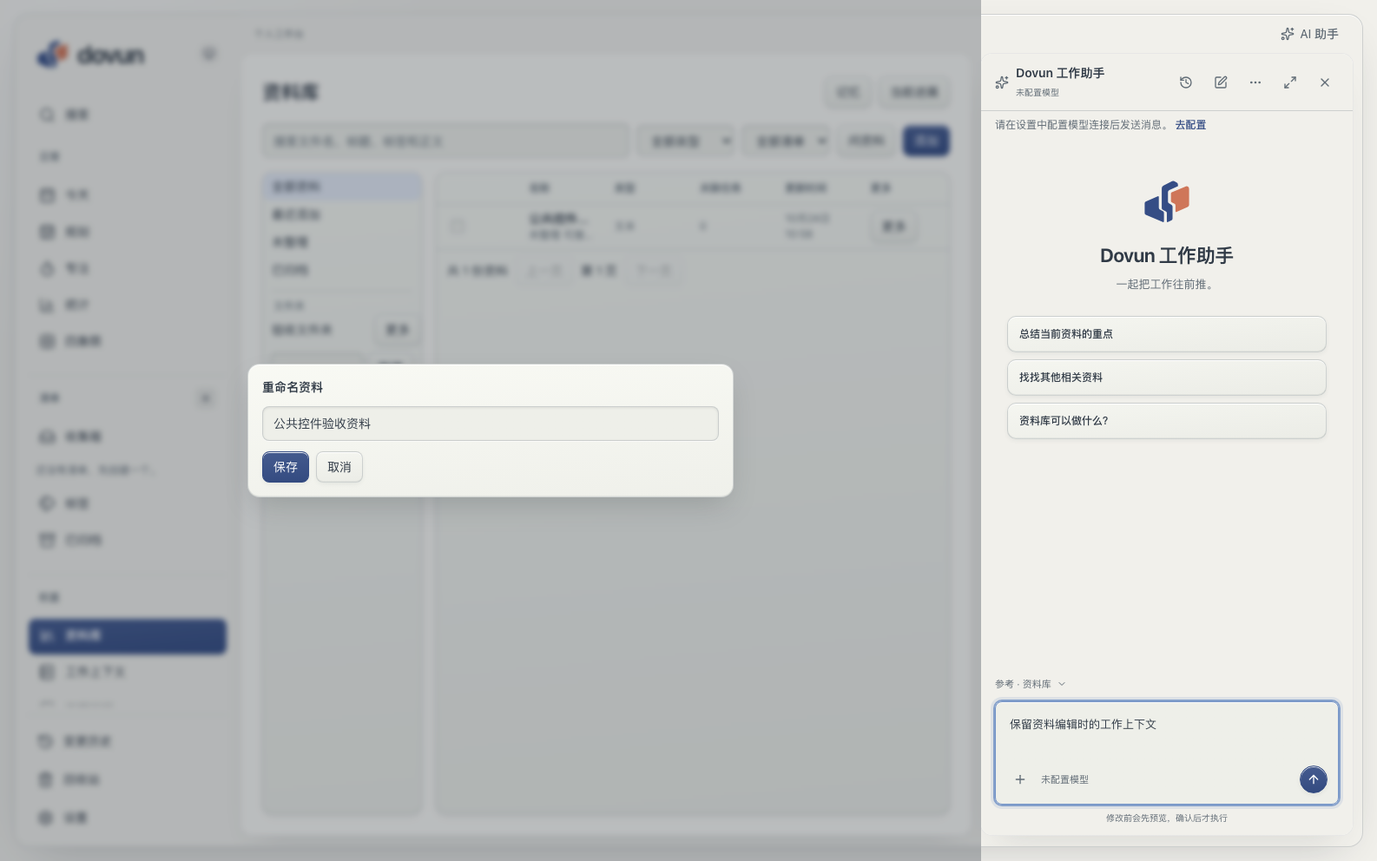
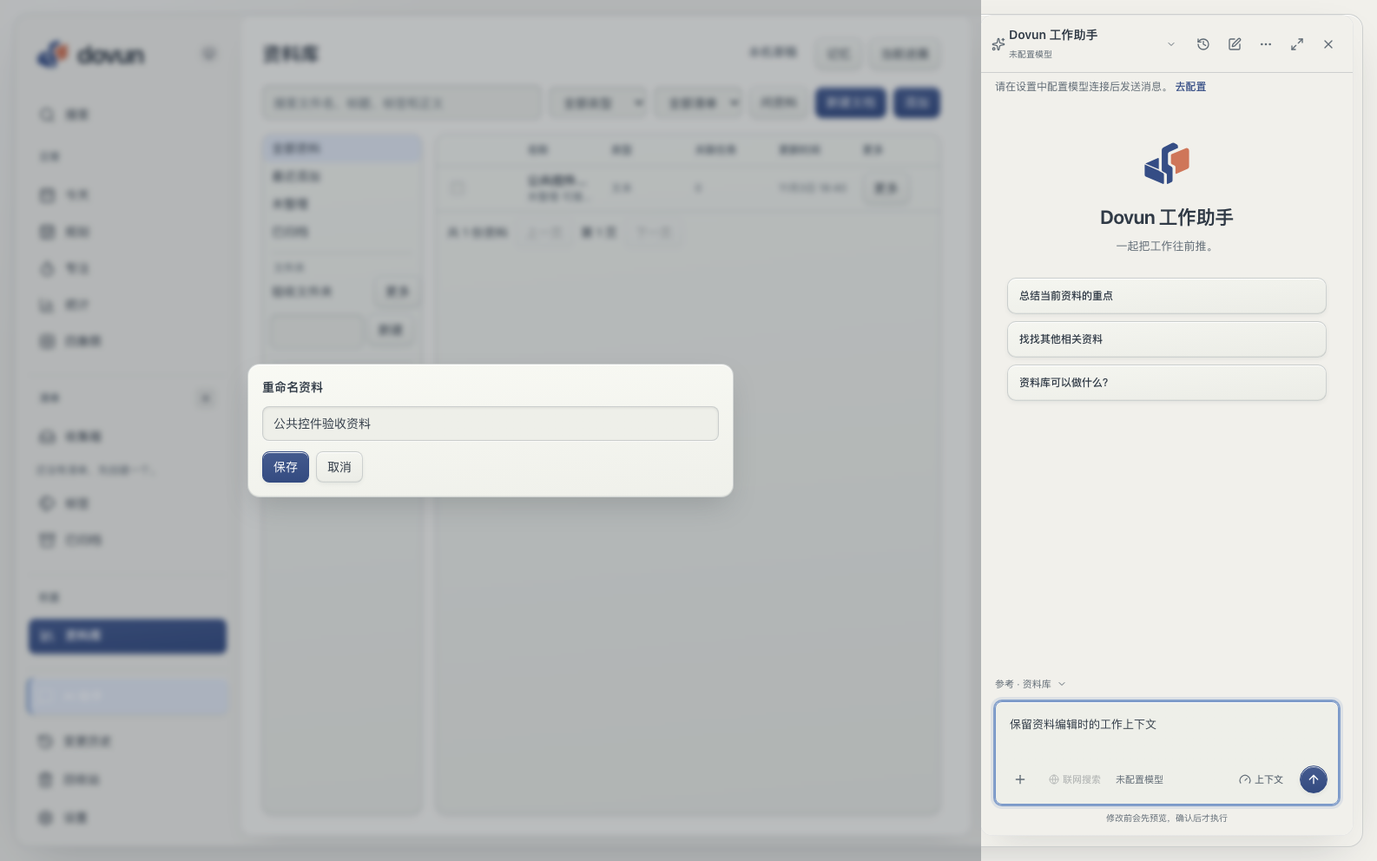
feat(assistant): pin the global entry to the sidebar footer
Move the AI assistant out of the scrolling collaboration group into the
fixed sidebar footer, and drop the duplicate chat button from task page
headers. E2E locators now open the assistant via the sidebar (or the
mobile floating button); modal-scoped entries stay untouched. Update
app knowledge to describe the fixed footer entry.

diff --git a/server/src/agent/app-knowledge.ts b/server/src/agent/app-knowledge.ts
@@ -49,8 +49,8 @@ export const appKnowledge: AppKnowledgeEntry[] = [
   { id: 'focus', title: '专注', content: '专注页面提供专注计时，可从任务详情开始专注。计时与任务安排不同；关闭 AI 面板不会结束计时。' },
   { id: 'stats', title: '统计', content: '统计页在专注后面，按本地日历汇总完成、逾期、专注、规划和 AI 使用。可选 7 天、30 天，或不超过 366 天的自定义区间。某一块加载失败时，其余块仍显示。有记录的天数很少时数字照常统计，趋势图先不画。助手没有统计总览工具，不要编造这些数字；派发轮次仍用 orchestration_stats。' },
   { id: 'topics', title: '清单管理', content: '清单管理可新建、选择和编辑清单，也可进入收集箱或设置。清单隔离工作上下文，但不妨碍用户要求跨清单查询。每个清单可填写长期目标和目标截止日：目标是一两句话的方向描述，截止日是日历日期；两者在清单页顶部显示，临近或超过截止日会标出。进入该清单时助手自动读到目标和截止日，可据此判断任务优先级和回顾节奏；目标本身不是任务，也不会自动生成任务。' },
-  { id: 'more', title: '手机导航', identities: ['work', 'study'], content: '新安装手机底栏为今天、规划、清单、资料库，另有更多；已有用户的配置保留。更多与桌面按日常、清单、积累、AI 协作、高级工具、通用入口组织，高级工具默认折叠。手机底栏由设置决定，更多页面提供其他入口，学习地图在积累分组。AI 助手可从页面浮动按钮打开，不必进入更多；桌面端也可从左侧“AI 协作”分组直接打开。聊天返回后保留原页面状态。' },
-  { id: 'assistant', title: 'AI 助手', content: '桌面端从左侧“AI 协作”分组打开 AI 助手，手机端使用底部导航上方的浮动助手按钮，不再显示“个人工作台”全局横栏；快捷键是 Command+Shift+L 或 Ctrl+Shift+L。打开任务后，任务详情与 AI 助手在工作侧栏通过页签切换，每次占满侧栏；任务底部的“问 AI”可切到聊天，点击“任务”页签返回详情。顶部使用紧凑的一行切换和唯一的侧栏关闭按钮，无收放动画；聊天不重复展示顶部任务引用卡，输入框上方的“参考/已固定”统一展示页面、任务、资料、筛选和主动附加内容，点开可查看详情并切换跟随页面或固定上下文。切换保留任务编辑内容、聊天草稿及当前会话；关闭侧栏按现有保存流程处理任务编辑。电脑可展开为完整助手并返回，手机在全屏工作侧栏切换。跨页继续同一会话，下一条消息跟随当前页面；固定上下文后保持对象和范围。草稿及选中文字仅主动带入，每个最多 20000 字符、合计 40000 字符。关闭只收起，不中断运行。助手可用 present_reply 混排文字和 SVG 图示，SVG 应输出独立内容块。前后端共用静态 SVG 规则，支持无障碍与语言说明、常用文字和描边填充属性、本地渐变和裁剪，以及受限内联展示样式；CDATA 文字会保留。脚本、事件、外链、动画、滤镜、mask、pattern、use、symbol、textPath，以及内联 CSS transform/d 不支持；SVG transform/d 属性可用。箭头不能嵌套，图元数量、尺寸、引用深度和估算渲染成本有限制；已完成消息中的 SVG 代码块也能安全预览，支持查看源码、放大和导出，危险或无效内容会显示失败提示并保留源码。同一轮回答中的连续思考、只读工具查询和技能读取合并为一条默认收起的执行过程，显示查询项数、思考次数和技能项数；执行时显示当前查询或思考，失败和中断在收起时也会明确提示。展开后按消息顺序查看思考与工具记录，单项可继续展开查看内容、参数与结果。修改操作的预览与审批卡保持在过程之外直接可见。模型返回思考内容时可展开查看，思考期间显示耗时，完成后思考内容默认收起；停止后保留已收到的思考，未返回时不显示空区域。思考独立保存，旧对话和刷新后的记录也使用相同的合并展示，不混入回答和模型历史。同一轮重复来源合并为底部参考来源列表，历史对话以内容摘要和本地日期显示。正文有对应来源编号时，点击编号可打开原文浮窗；来源只来自实际工具读取，删除或版本失效时提示，不编造原文。学习节点、学习地图和正式练习题读取也可生成来源；题目来源不包含隐藏答案或评分细则。助手头部可在工作助手与学习助手之间切换，同一工作区内往返时恢复各自会话、输入草稿及显式引用；刷新和切回原工作区也可恢复已保存的草稿，保存失败会持续提示，未知发送原请求与新草稿分别保留；会话历史按身份分开。有未确认发送、执行中任务或未决审批时先处理当前状态再切换。' },
+  { id: 'more', title: '手机导航', identities: ['work', 'study'], content: '新安装手机底栏为今天、规划、清单、资料库，另有更多；已有用户的配置保留。更多与桌面按日常、清单、积累、AI 协作、高级工具、通用入口组织，高级工具默认折叠。手机底栏由设置决定，更多页面提供其他入口，学习地图在积累分组。AI 助手可从页面浮动按钮打开，不必进入更多；桌面端从左侧栏底部固定入口直接打开。聊天返回后保留原页面状态。' },
+  { id: 'assistant', title: 'AI 助手', content: '桌面端从左侧栏底部的固定“AI 助手”入口打开助手，该入口不随导航列表滚动，任务页顶栏没有单独的聊天按钮；手机端使用底部导航上方的浮动助手按钮；快捷键是 Command+Shift+L 或 Ctrl+Shift+L。设置、回收站、变更等全屏弹层内有自己的“AI 助手”按钮。打开任务后，任务详情与 AI 助手在工作侧栏通过页签切换，每次占满侧栏；任务底部的“问 AI”可切到聊天，点击“任务”页签返回详情。顶部使用紧凑的一行切换和唯一的侧栏关闭按钮，无收放动画；聊天不重复展示顶部任务引用卡，输入框上方的“参考/已固定”统一展示页面、任务、资料、筛选和主动附加内容，点开可查看详情并切换跟随页面或固定上下文。切换保留任务编辑内容、聊天草稿及当前会话；关闭侧栏按现有保存流程处理任务编辑。电脑可展开为完整助手并返回，手机在全屏工作侧栏切换。跨页继续同一会话，下一条消息跟随当前页面；固定上下文后保持对象和范围。草稿及选中文字仅主动带入，每个最多 20000 字符、合计 40000 字符。关闭只收起，不中断运行。助手可用 present_reply 混排文字和 SVG 图示，SVG 应输出独立内容块。前后端共用静态 SVG 规则，支持无障碍与语言说明、常用文字和描边填充属性、本地渐变和裁剪，以及受限内联展示样式；CDATA 文字会保留。脚本、事件、外链、动画、滤镜、mask、pattern、use、symbol、textPath，以及内联 CSS transform/d 不支持；SVG transform/d 属性可用。箭头不能嵌套，图元数量、尺寸、引用深度和估算渲染成本有限制；已完成消息中的 SVG 代码块也能安全预览，支持查看源码、放大和导出，危险或无效内容会显示失败提示并保留源码。同一轮回答中的连续思考、只读工具查询和技能读取合并为一条默认收起的执行过程，显示查询项数、思考次数和技能项数；执行时显示当前查询或思考，失败和中断在收起时也会明确提示。展开后按消息顺序查看思考与工具记录，单项可继续展开查看内容、参数与结果。修改操作的预览与审批卡保持在过程之外直接可见。模型返回思考内容时可展开查看，思考期间显示耗时，完成后思考内容默认收起；停止后保留已收到的思考，未返回时不显示空区域。思考独立保存，旧对话和刷新后的记录也使用相同的合并展示，不混入回答和模型历史。同一轮重复来源合并为底部参考来源列表，历史对话以内容摘要和本地日期显示。正文有对应来源编号时，点击编号可打开原文浮窗；来源只来自实际工具读取，删除或版本失效时提示，不编造原文。学习节点、学习地图和正式练习题读取也可生成来源；题目来源不包含隐藏答案或评分细则。助手头部可在工作助手与学习助手之间切换，同一工作区内往返时恢复各自会话、输入草稿及显式引用；刷新和切回原工作区也可恢复已保存的草稿，保存失败会持续提示，未知发送原请求与新草稿分别保留；会话历史按身份分开。有未确认发送、执行中任务或未决审批时先处理当前状态再切换。' },
 ];
 function knowledgeVisibleTo(item: AppKnowledgeEntry, identityId: string) {
   return item.identities ? item.identities.includes(identityId as 'work' | 'study') : identityId !== 'study';

diff --git a/e2e/app.spec.ts b/e2e/app.spec.ts
@@ -25,7 +25,7 @@ async function taskCount(request: APIRequestContext, topicId: string) {
 }
 
 async function send(page: Page, message: string) {
-  if (!(await page.getByPlaceholder(composerPlaceholder).isVisible())) await page.getByRole('button', { name: '打开聊天', exact: true }).click();
+  if (!(await page.getByPlaceholder(composerPlaceholder).isVisible())) await page.getByRole('button', { name: '打开 AI 助手', exact: true }).click();
   await page.getByPlaceholder(composerPlaceholder).fill(message);
   await page.getByRole('button', { name: '发送' }).click();
 }
@@ -151,7 +151,7 @@ test.describe('Agent 工作室 MVP', () => {
     const chatHeading = page.getByRole('heading', { level: 2, name: 'Dovun 工作助手' });
     const boardSection = page.getByRole('main');
     await expect(chatHeading).toBeHidden();
-    await page.getByRole('button', { name: '打开聊天', exact: true }).click();
+    await page.getByRole('button', { name: '打开 AI 助手', exact: true }).click();
     await expect(chatHeading).toBeVisible();
     await expect(page.getByRole('button', { name: '关闭聊天' })).toBeVisible();
     const composer = page.getByPlaceholder(composerPlaceholder);
@@ -162,12 +162,12 @@ test.describe('Agent 工作室 MVP', () => {
 
     await page.getByRole('button', { name: '关闭聊天' }).click();
     await expect(chatHeading).toBeHidden();
-    await expect(page.getByRole('button', { name: '打开聊天' })).toBeVisible();
+    await expect(page.getByRole('button', { name: '打开 AI 助手' })).toBeVisible();
     const boardWidthAfterClose = (await boardSection.boundingBox())?.width;
     expect(boardWidthAfterClose).toBeGreaterThan(boardWidthBeforeClose!);
     expect(await page.evaluate(() => document.documentElement.scrollWidth > document.documentElement.clientWidth)).toBe(false);
 
-    await page.getByRole('button', { name: '打开聊天' }).click();
+    await page.getByRole('button', { name: '打开 AI 助手' }).click();
     await expect(chatHeading).toBeVisible();
     await expect(page.getByRole('button', { name: '关闭聊天' })).toBeVisible();
     await expect(composer).toHaveValue('关闭后仍然保留');
@@ -185,7 +185,7 @@ test.describe('Agent 工作室 MVP', () => {
     const detail = page.getByRole('dialog', { name: '任务详情', exact: true });
     await detail.getByLabel('详情', { exact: true }).fill('检查器草稿');
 
-    await page.getByRole('button', { name: '打开聊天', exact: true }).click();
+    await page.getByRole('button', { name: '打开 AI 助手', exact: true }).click();
     await expect(page.getByRole('dialog', { name: '保存未完成的编辑？' })).toHaveCount(0);
     await expect(page.getByRole('heading', { level: 2, name: 'Dovun 工作助手' })).toBeVisible();
     await expect(detail).toBeHidden();
@@ -230,7 +230,7 @@ test.describe('Agent 工作室 MVP', () => {
     await expect(page.getByRole('button', { name: '移动端任务', exact: true })).toBeVisible();
     expect(await page.evaluate(() => document.documentElement.scrollWidth > document.documentElement.clientWidth)).toBe(false);
 
-    await page.getByRole('button', { name: '打开聊天', exact: true }).click();
+    await page.getByRole('button', { name: '打开 AI 助手', exact: true }).click();
     await expect(page.getByPlaceholder(composerPlaceholder)).toBeVisible();
     await send(page, '创建任务');
     const card = page.getByTestId('approval-card');

diff --git a/client/src/components/tasks/ListPageHeader.tsx b/client/src/components/tasks/ListPageHeader.tsx
@@ -1,7 +1,7 @@
 import { Surface } from '@/components/ui/surface.js';
 import type { ReactNode } from 'react';
 import { useTranslation } from 'react-i18next';
-import { ChevronRight, Grid2X2, Kanban, LayoutList, Library, MessageSquare, Pencil, Plus } from 'lucide-react';
+import { ChevronRight, Grid2X2, Kanban, LayoutList, Library, Pencil, Plus } from 'lucide-react';
 import type { Topic, View } from '@/lib/api.js';
 import { Button } from '@/components/ui/button.js';
 import { intlLocale } from '@/i18n/index.js';
@@ -22,14 +22,13 @@ type Props = {
   filterSummary: string;
   layout: Layout;
   onLayout: (layout: Layout) => void;
-  onOpenChat: () => void;
   onOpenKnowledge: () => void;
   onEditTopic: () => void;
   onNewTask: () => void;
   filterBar?: ReactNode;
 };
 
-export function ListPageHeader({ page, title, scoped, archived, today, detail, briefNotes, filterSummary, layout, onLayout, onOpenChat, onOpenKnowledge, onEditTopic, onNewTask, filterBar }: Props) {
+export function ListPageHeader({ page, title, scoped, archived, today, detail, briefNotes, filterSummary, layout, onLayout, onOpenKnowledge, onEditTopic, onNewTask, filterBar }: Props) {
   const { t } = useTranslation('tasks');
   return (
     <header className={`dovun-page-header mb-5${page === 'today' ? ' dovun-today-header' : ''}`}>
@@ -46,7 +45,6 @@ export function ListPageHeader({ page, title, scoped, archived, today, detail, b
         </div>
         <div className="flex flex-wrap items-center gap-1">
           {page === 'board' && detail && filterBar}
-          <Button variant="ghost" size="icon" className="max-lg:hidden" aria-label={t('listPageHeader.openChat')} onClick={onOpenChat}><MessageSquare /></Button>
           {page === 'board' && detail && !archived && <Button variant="ghost" size="icon" aria-label={t('listPageHeader.editList', { name: detail.name })} onClick={onEditTopic}><Pencil /></Button>}
           {scoped && <Surface as="div" tone="input" className={cn('flex rounded-xl', page === 'board' ? 'gap-0.5' : 'glass-control p-1')}>{page === 'board' ? <><Button variant={layout === 'list' ? 'secondary' : 'ghost'} size="icon-sm" aria-label={t('listPageHeader.listLayout')} onClick={() => onLayout('list')}><LayoutList /></Button><Button variant={layout === 'board' ? 'secondary' : 'ghost'} size="icon-sm" aria-label={t('listPageHeader.boardLayout')} onClick={() => onLayout('board')}><Kanban /></Button><Button variant={layout === 'quadrant' ? 'secondary' : 'ghost'} size="icon-sm" aria-label={t('listPageHeader.quadrantLayout')} onClick={() => onLayout('quadrant')}><Grid2X2 /></Button></> : page !== 'quadrant' && <><Button variant={layout === 'list' ? 'secondary' : 'ghost'} size="sm" onClick={() => onLayout('list')}>{t('listPageHeader.listLayout')}</Button><Button variant={layout === 'board' ? 'secondary' : 'ghost'} size="sm" onClick={() => onLayout('board')}>{t('listPageHeader.boardLayout')}</Button></>}</Surface>}
           {(scoped || page === 'today') && !archived && page !== 'board' && page !== 'quadrant' && <Button onClick={onNewTask}><Plus />{t('listPageHeader.newTask')}</Button>}

diff --git a/client/src/components/layout/Sidebar.tsx b/client/src/components/layout/Sidebar.tsx
@@ -37,20 +37,21 @@ export function Sidebar({ compact, route, page, topics, topicsLoading, selectedT
       <nav aria-label={t('sidebar.mainNav')} className="sidebar-nav">
         {link('search')}
         {navigationGroups.filter(group => group.id !== 'system').map(group => {
-          if (compact) return <div key={group.id} className="dovun-compact-group">{group.views.map(link)}</div>;
+          const views = group.views.filter(view => view !== 'chat');
+          if (compact) return <div key={group.id} className="dovun-compact-group">{views.map(link)}</div>;
           if (group.id === 'advanced') return <Disclosure key={group.id} className="dovun-advanced" open={advancedOpen || route === 'worktrees'}>
             <DisclosureTrigger className="sidebar-link" onClick={event => { event.preventDefault(); setAdvancedOpen(value => !value); }}><ChevronRight className="size-3.5" aria-hidden /><span>{t('app:groups.advanced')}</span></DisclosureTrigger>
-            {group.views.map(link)}
+            {views.map(link)}
           </Disclosure>;
           return <section key={group.id} className="dovun-nav-group" aria-label={t(`app:groups.${group.id}`)}>
             <div className="sidebar-section">{group.id === 'lists' ? <Button variant="plain" size="bare" onClick={() => onNavigate('topics')}>{t('app:groups.lists')}</Button> : <span>{t(`app:groups.${group.id}`)}</span>}
               {group.id === 'lists' && <Button variant="row" size="bare" type="button" className="sidebar-add" aria-label={t('sidebar.newList')} onClick={onNewTopic}><Plus className="size-3.5" aria-hidden /></Button>}
             </div>
-            {group.id === 'lists' ? <>{link('inbox')}<TopicList variant="sidebar" topics={topics} loading={topicsLoading} selectedTopicId={page === 'board' ? selectedTopicId : ''} onSelect={onSelectTopic} onEdit={onEditTopic} />{link('tags')}{link('archived')}</> : group.views.map(link)}
+            {group.id === 'lists' ? <>{link('inbox')}<TopicList variant="sidebar" topics={topics} loading={topicsLoading} selectedTopicId={page === 'board' ? selectedTopicId : ''} onSelect={onSelectTopic} onEdit={onEditTopic} />{link('tags')}{link('archived')}</> : views.map(link)}
           </section>;
         })}
       </nav>
     </SidebarScroll>
-    <footer className="sidebar-footer"><nav aria-label={t('sidebar.tools')} className="sidebar-nav">{['changes', 'trash', 'settings'].map(view => link(view as View))}</nav>{compact && <ThemeToggle />}</footer>
+    <footer className="sidebar-footer"><nav aria-label={t('sidebar.aiAssistant')} className="sidebar-nav">{link('chat')}</nav><nav aria-label={t('sidebar.tools')} className="sidebar-nav sidebar-nav-follow">{['changes', 'trash', 'settings'].map(view => link(view as View))}</nav>{compact && <ThemeToggle />}</footer>
   </aside>;
 }

diff --git a/client/src/App.tsx b/client/src/App.tsx
@@ -521,7 +521,7 @@ function ScopedApp({scope}:{scope:string|undefined}) {
   const filterBar = <TaskFilterBar page={page} scoped={scoped} filters={filters} sortMode={sortMode} topics={topics} tags={tags} open={filtersOpen} onOpenChange={setFiltersOpen} onChange={updateFilter} onSort={setSortMode} onClear={() => setFilters(emptyFilters)} presentation={page === 'board' ? 'popover' : 'bar'} />;
   const taskList = <TaskList {...listProps} tasks={tasks} foldDone={scoped && !hasFilters} hierarchical={scoped && !hasFilters && sortMode === 'manual'} onDragSettled={markDragHint} onReorder={scoped && !hasFilters && !archived && sortMode === 'manual' ? reorder : undefined} onNest={scoped && !hasFilters && !archived && sortMode === 'manual' ? nest : undefined} />;
   const taskContent = <div className={`dovun-task-content mx-auto max-w-5xl p-4 pb-10 sm:p-6${page === 'today' ? ' is-today' : ''}`}>
-    <ListPageHeader page={page} title={title} scoped={scoped} archived={archived} today={today} detail={detail} briefNotes={briefNotes} filterSummary={filterSummary} layout={layout} onLayout={setLayout} onOpenChat={openChat} onOpenKnowledge={() => navigateSafely('knowledge')} onEditTopic={() => { if (detail) setTopicForm(detail); }} onNewTask={() => captureRef.current?.focus()} filterBar={filterBar} />
+    <ListPageHeader page={page} title={title} scoped={scoped} archived={archived} today={today} detail={detail} briefNotes={briefNotes} filterSummary={filterSummary} layout={layout} onLayout={setLayout} onOpenKnowledge={() => navigateSafely('knowledge')} onEditTopic={() => { if (detail) setTopicForm(detail); }} onNewTask={() => captureRef.current?.focus()} filterBar={filterBar} />
     {page === 'board' && detail && <SummaryPanel detail={detail} busy={actions.pending} onConfirm={archived ? undefined : (action) => run(actions.write(`/api/topics/${detail.id}/summary/${action}`, 'POST', undefined, [detail.id], action === 'confirm' ? t('shell.summaryConfirmed') : t('shell.draftDiscarded')))} />}
     {page === 'board' && !detail ? <Button onClick={newTopic}>{t('shell.newList')}</Button> : <>
       {!listLayout && ((scoped && !archived && page !== 'board') || page === 'today') && <QuickCapture ref={captureRef} key={`${page}.${selectedTopicId}`} topicId={page === 'inbox' || page === 'today' ? null : selectedTopicId} inbox={page === 'inbox'} onCreate={captureTask} />}

diff --git a/e2e/list-polish.spec.ts b/e2e/list-polish.spec.ts
@@ -49,14 +49,14 @@ test('已完成任务收在底部，今天不画出空分组', async ({ page, re
   await expect(page.getByText('暂无任务', { exact: true })).toBeVisible();
 });
 
-test('打开聊天后未保存的标题还在', async ({ page, request }) => {
+test('打开 AI 助手后未保存的标题还在', async ({ page, request }) => {
   const created = await (await request.post(`${apiUrl}/api/tasks`, { data: { title: '原来的标题' } })).json();
   await page.setViewportSize({ width: 1200, height: 800 });
   await page.goto('/#/inbox');
   await page.getByTestId(`task-row-${created.data.id}`).getByRole('button', { name: '原来的标题', exact: true }).click();
   const detail = page.getByRole('dialog', { name: '任务详情', exact: true });
   await detail.getByLabel('任务标题', { exact: true }).fill('还没保存的标题');
-  await page.getByRole('button', { name: '打开聊天', exact: true }).click();
+  await page.getByRole('button', { name: '打开 AI 助手', exact: true }).click();
   await expect(page.getByRole('dialog', { name: '保存未完成的编辑？' })).toHaveCount(0);
   await expect(detail).toBeHidden();
   await expect(page.getByRole('button', { name: '关闭工作侧栏', exact: true })).toBeVisible();

diff --git a/e2e/orchestration.e2e.ts b/e2e/orchestration.e2e.ts
@@ -206,7 +206,7 @@ test('the assistant can only propose a worktree deletion; the user confirms it i
   const before = git(repo, 'worktree', 'list');
   const cleanupsBefore = await e2eDatabase.worktreeCleanup.count();
   await page.goto('/');
-  if (!(await page.getByPlaceholder(composer).isVisible())) await page.getByRole('button', { name: '打开聊天', exact: true }).click();
+  if (!(await page.getByPlaceholder(composer).isVisible())) await page.getByRole('button', { name: '打开 AI 助手', exact: true }).click();
   await page.getByPlaceholder(composer).fill('帮我清理已验收的 worktree');
   await page.getByRole('button', { name: '发送', exact: true }).click();
   const card = page.getByRole('group', { name: '待确认的删除' });

diff --git a/e2e/orchestration-history.e2e.ts b/e2e/orchestration-history.e2e.ts
@@ -205,7 +205,7 @@ test('stats tab counts the rounds from this run, including the rejection', async
 
 test('the assistant answers a dispatch-stats question from orchestration_stats', async ({ page }) => {
   await page.goto('/');
-  if (!(await page.getByPlaceholder(composer).isVisible())) await page.getByRole('button', { name: '打开聊天', exact: true }).click();
+  if (!(await page.getByPlaceholder(composer).isVisible())) await page.getByRole('button', { name: '打开 AI 助手', exact: true }).click();
   await page.getByPlaceholder(composer).fill('统计这周 AI 派发');
   await page.getByRole('button', { name: '发送', exact: true }).click();
   await expect(page.getByText(/本周派发 \d+ 轮/)).toBeVisible({ timeout: 30_000 });

diff --git a/e2e/filter-visual.spec.ts b/e2e/filter-visual.spec.ts
@@ -11,7 +11,7 @@ test('筛选区在桌面和窄屏可折叠且不横向溢出', async ({ page }) 
   await page.getByRole('button', { name: '筛选', exact: true }).click();
   await expect(page.getByRole('combobox', { name: '筛选完成状态', exact: true })).toBeVisible();
   await expect(page.getByRole('combobox', { name: '任务排序', exact: true })).toBeVisible();
-  await page.getByRole('button', { name: '打开聊天', exact: true }).click();
+  await page.getByRole('button', { name: '打开 AI 助手', exact: true }).click();
   expect(await fits()).toBe(false);
   await page.getByRole('button', { name: '关闭聊天', exact: true }).click();
   await page.setViewportSize({ width: 360, height: 780 });

diff --git a/client/src/lib/navigation-items.ts b/client/src/lib/navigation-items.ts
@@ -35,7 +35,7 @@ export const navigationItems: NavigationItem[] = [
   navItem('stats', 'app:nav.stats', ChartColumn),
 ];
 
-/** 聊天与“更多”是固定入口，不进入可配置清单，也不自动加入桌面侧栏。 */
+/** 聊天与“更多”是固定入口，不进入可配置清单；桌面侧栏把聊天固定渲染在底部工具区（Sidebar footer），移动端更多页与底栏单独使用。 */
 export const chatItem: NavigationItem = navItem('chat', 'app:nav.chat', MessageSquare);
 export const moreItem: NavigationItem = navItem('more', 'app:nav.more', Menu);
 

diff --git a/e2e/ai-repair.spec.ts b/e2e/ai-repair.spec.ts
@@ -17,7 +17,7 @@ async function post(request: APIRequestContext, path: string, data: unknown) {
 }
 
 async function openChat(page: Page) {
-  if (!(await page.getByPlaceholder(composer).isVisible())) await page.getByRole('button', { name: '打开聊天', exact: true }).click();
+  if (!(await page.getByPlaceholder(composer).isVisible())) await page.getByRole('button', { name: '打开 AI 助手', exact: true }).click();
 }
 
 async function ask(page: Page, message: string) {

diff --git a/e2e/ai-time-activity.spec.ts b/e2e/ai-time-activity.spec.ts
@@ -11,7 +11,7 @@ async function post(request: APIRequestContext, path: string, data: unknown) {
 }
 
 async function openChat(page: Page) {
-  if (!(await page.getByPlaceholder(composer).isVisible())) await page.getByRole('button', { name: '打开聊天', exact: true }).click();
+  if (!(await page.getByPlaceholder(composer).isVisible())) await page.getByRole('button', { name: '打开 AI 助手', exact: true }).click();
 }
 
 async function ask(page: Page, message: string) {
